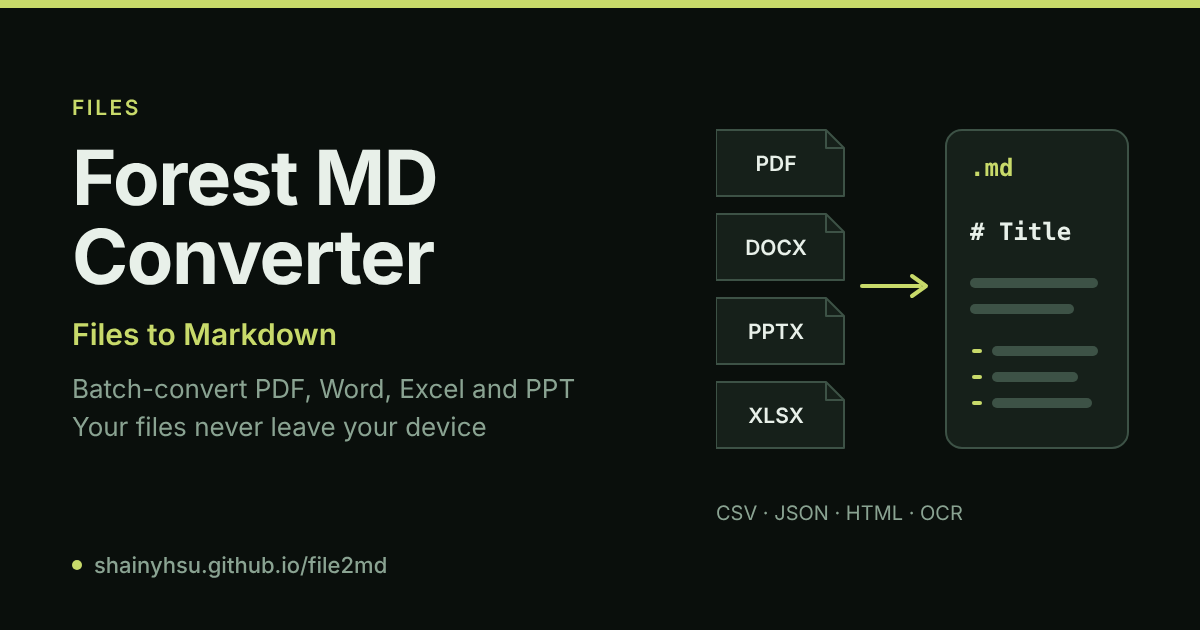
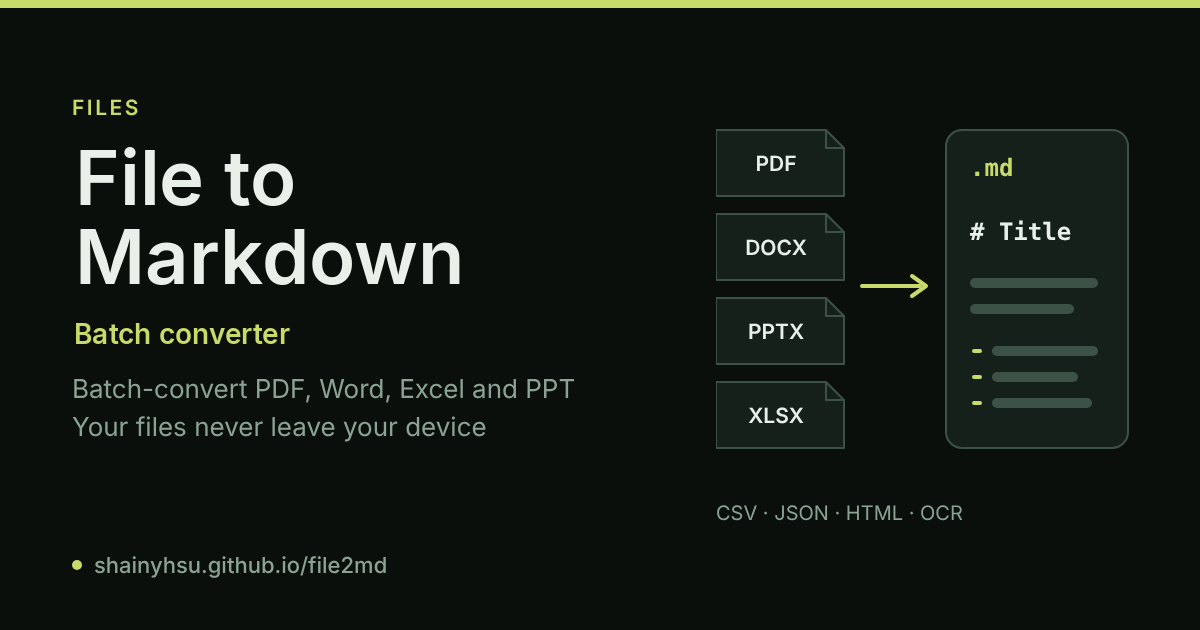
Rename Forest MD Converter to File to Markdown

Changed region(s): [[0.0617, 0.3619, 0.4008, 0.4524], [0.0617, 0.2111, 0.37, 0.3317], [0.0617, 0.5127, 0.2775, 0.573]]

diff --git a/index.html b/index.html
@@ -3,11 +3,11 @@
 <head><script>(function(){var t="dark";try{t=localStorage.getItem("theme")||"dark"}catch(e){}document.documentElement.setAttribute("data-theme",t==="light"?"light":"dark")})()</script>
   <meta charset="UTF-8" />
   <meta name="viewport" content="width=device-width, initial-scale=1.0" />
-  <title>Forest MD Converter · 檔案轉 Markdown（PDF、Word、Excel、PPT 批次轉換）</title>
+  <title>檔案轉 Markdown · File to Markdown（PDF、Word、Excel、PPT 批次轉換）</title>
 <meta name="description" content="免安裝、純前端的檔案轉 Markdown 工具：PDF（含 OCR）、DOCX、PPTX、XLSX、CSV、JSON、HTML 批次轉換並打包 ZIP，檔案永不離開你的裝置。">
 <link rel="canonical" href="https://shainyhsu.github.io/file2md/">
 <meta property="og:type" content="website">
-<meta property="og:title" content="Forest MD Converter · 檔案轉 Markdown（PDF、Word、Excel、PPT 批次轉換）">
+<meta property="og:title" content="檔案轉 Markdown · File to Markdown（PDF、Word、Excel、PPT 批次轉換）">
 <meta property="og:description" content="免安裝、純前端的檔案轉 Markdown 工具：PDF（含 OCR）、DOCX、PPTX、XLSX、CSV、JSON、HTML 批次轉換並打包 ZIP，檔案永不離開你的裝置。">
 <meta property="og:url" content="https://shainyhsu.github.io/file2md/">
 <meta property="og:locale" content="zh_TW">
@@ -15,11 +15,11 @@
 <meta property="og:image:type" content="image/png">
 <meta property="og:image:width" content="1200">
 <meta property="og:image:height" content="630">
-<meta property="og:image:alt" content="Forest MD Converter: batch-convert PDF, Word, Excel and PPT to Markdown; your files never leave your device">
+<meta property="og:image:alt" content="File to Markdown: batch-convert PDF, Word, Excel and PPT to Markdown; your files never leave your device">
 <meta name="twitter:card" content="summary_large_image">
 <meta name="twitter:image" content="https://shainyhsu.github.io/file2md/og.png">
-<meta name="twitter:image:alt" content="Forest MD Converter: batch-convert PDF, Word, Excel and PPT to Markdown; your files never leave your device">
-<script type="application/ld+json">{"@context": "https://schema.org", "@type": "WebApplication", "name": "Forest MD Converter", "url": "https://shainyhsu.github.io/file2md/", "description": "免安裝、純前端的檔案轉 Markdown 工具：PDF（含 OCR）、DOCX、PPTX、XLSX、CSV、JSON、HTML 批次轉換並打包 ZIP，檔案永不離開你的裝置。", "applicationCategory": "UtilitiesApplication", "operatingSystem": "Any", "inLanguage": "zh-Hant", "isAccessibleForFree": true, "offers": {"@type": "Offer", "price": "0", "priceCurrency": "TWD"}, "author": {"@type": "Person", "name": "Shainy Hsu", "url": "https://github.com/shainyhsu"}}</script>
+<meta name="twitter:image:alt" content="File to Markdown: batch-convert PDF, Word, Excel and PPT to Markdown; your files never leave your device">
+<script type="application/ld+json">{"@context": "https://schema.org", "@type": "WebApplication", "name": "File to Markdown", "url": "https://shainyhsu.github.io/file2md/", "description": "免安裝、純前端的檔案轉 Markdown 工具：PDF（含 OCR）、DOCX、PPTX、XLSX、CSV、JSON、HTML 批次轉換並打包 ZIP，檔案永不離開你的裝置。", "applicationCategory": "UtilitiesApplication", "operatingSystem": "Any", "inLanguage": "zh-Hant", "isAccessibleForFree": true, "offers": {"@type": "Offer", "price": "0", "priceCurrency": "TWD"}, "author": {"@type": "Person", "name": "Shainy Hsu", "url": "https://github.com/shainyhsu"}}</script>
 
   <script src="https://cdn.jsdelivr.net/npm/mammoth@1.8.0/mammoth.browser.min.js"></script>
   <script src="https://cdn.jsdelivr.net/npm/xlsx@0.18.5/dist/xlsx.full.min.js"></script>
@@ -283,7 +283,7 @@
   <div class="container">
     <header>
       <div class="header-text">
-        <h1 data-i18n="title">🌲 Forest MD Converter</h1>
+        <h1 data-i18n="title">檔案轉 Markdown</h1>
         <p class="subtitle" data-i18n="subtitle">純前端轉換・支援批次・檔案永不離開裝置</p>
       </div>
 
@@ -335,7 +335,7 @@
 
     const i18n = {
       zh: {
-        title: '🌲 Forest MD Converter',
+        title: '檔案轉 Markdown',
         subtitle: '純前端轉換・支援批次・檔案永不離開裝置',
         dropTitle: '拖曳檔案到這裡，或點擊選擇（可複選）',
         dropDesc: '支援 PDF、DOCX、PPTX、XLSX、CSV、JSON、HTML、TXT、MD',
@@ -364,7 +364,7 @@
         noFiles: '沒有可下載的檔案'
       },
       en: {
-        title: '🌲 Forest MD Converter',
+        title: 'File to Markdown',
         subtitle: 'Client-side conversion · Batch support · Files never leave your device',
         dropTitle: 'Drop files here, or click to select (multiple allowed)',
         dropDesc: 'Supports PDF, DOCX, PPTX, XLSX, CSV, JSON, HTML, TXT, MD',

diff --git a/README.md b/README.md
@@ -1,4 +1,4 @@
-# Forest MD Converter (file2md)
+# File to Markdown (file2md)
 
 Convert common office and text files to Markdown right in your browser. Batch-friendly, no install, and your files never leave your device.
 
@@ -57,6 +57,7 @@ Copyright (c) 2026 Shainy Hsu. All rights reserved. See [LICENSE](LICENSE).
 
 Times are Taiwan time (UTC+8).
 
+- V15 | 2026-11-11 11:50 | Renamed to “檔案轉 Markdown / File to Markdown” (the forest-green look stays); page title, heading, search entries and link-preview image updated
 - V14 | 2026-11-11 10:07 | New license terms: free to use in a browser for personal, work, school or club use, and the results you make are yours to share; copying, paid services built on it, and AI training need written permission. A License link sits at the bottom of the page
 - V13 | 2026-11-10 00:18 | Added a link-preview image (1200×630) so shared links show a picture in LINE, Facebook and other apps.
 - V12 | 2026-11-09 10:14 | Added a two-column layout on wide screens (upload on the left, results on the right) and an All Rights Reserved license.
